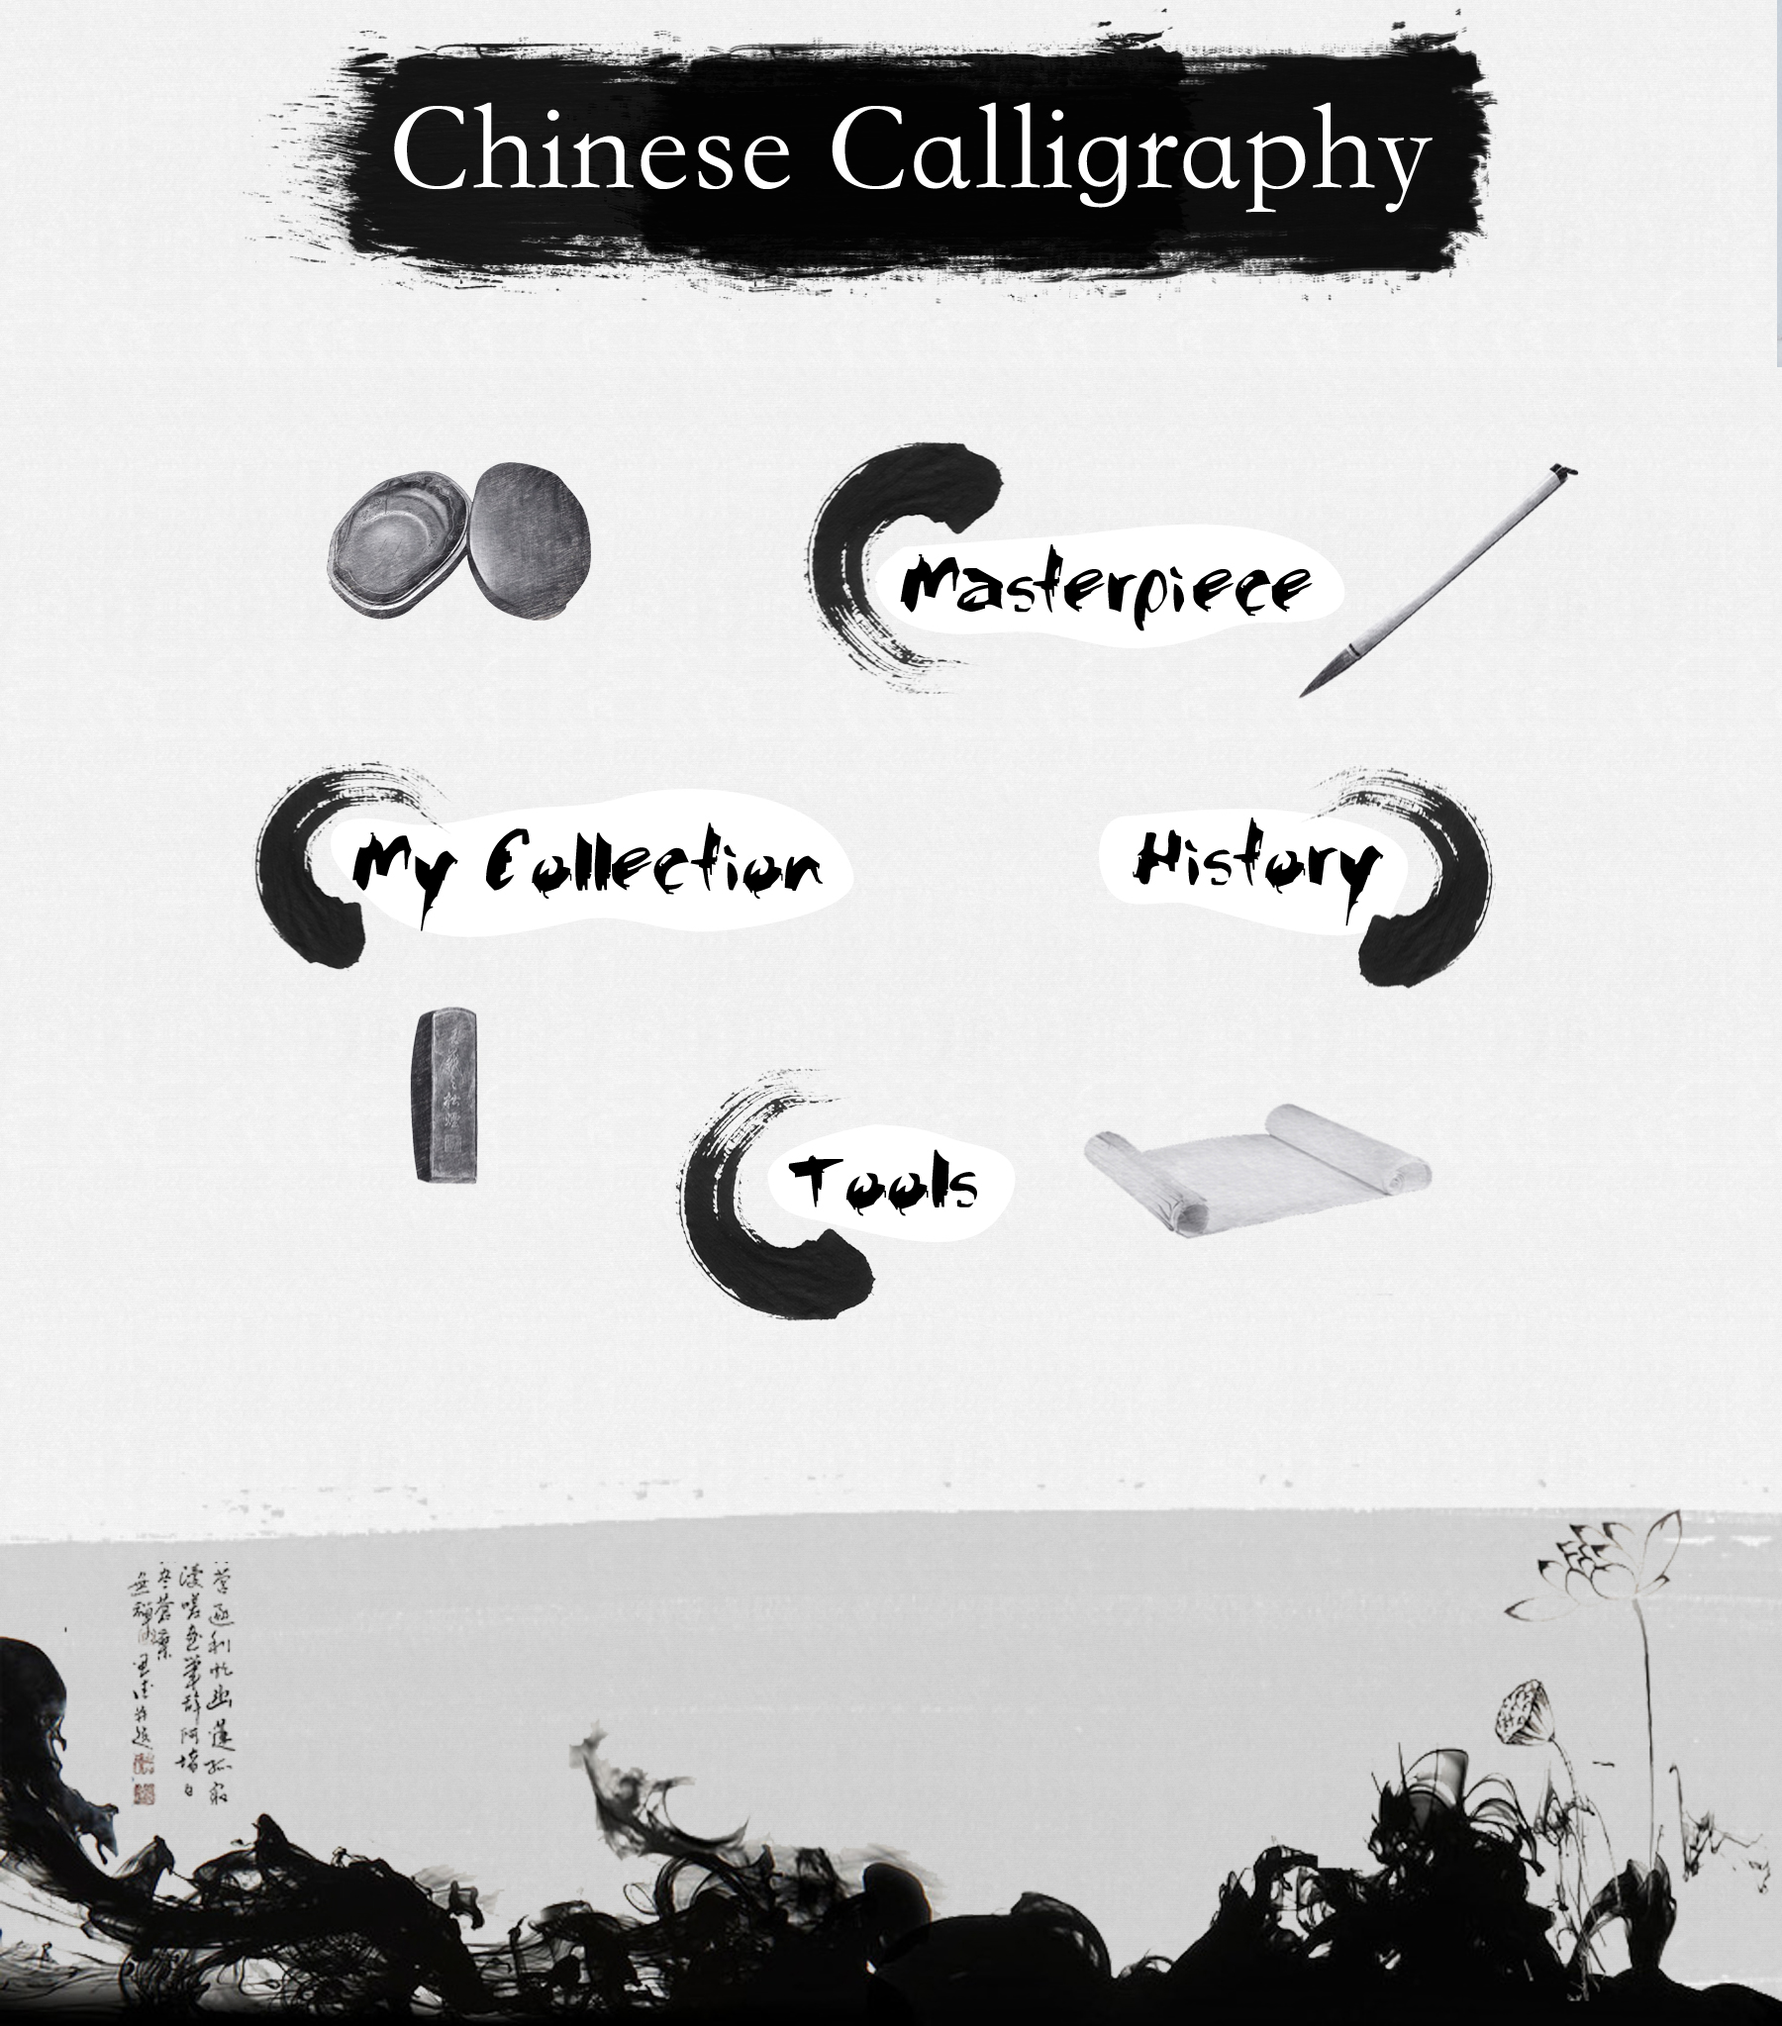
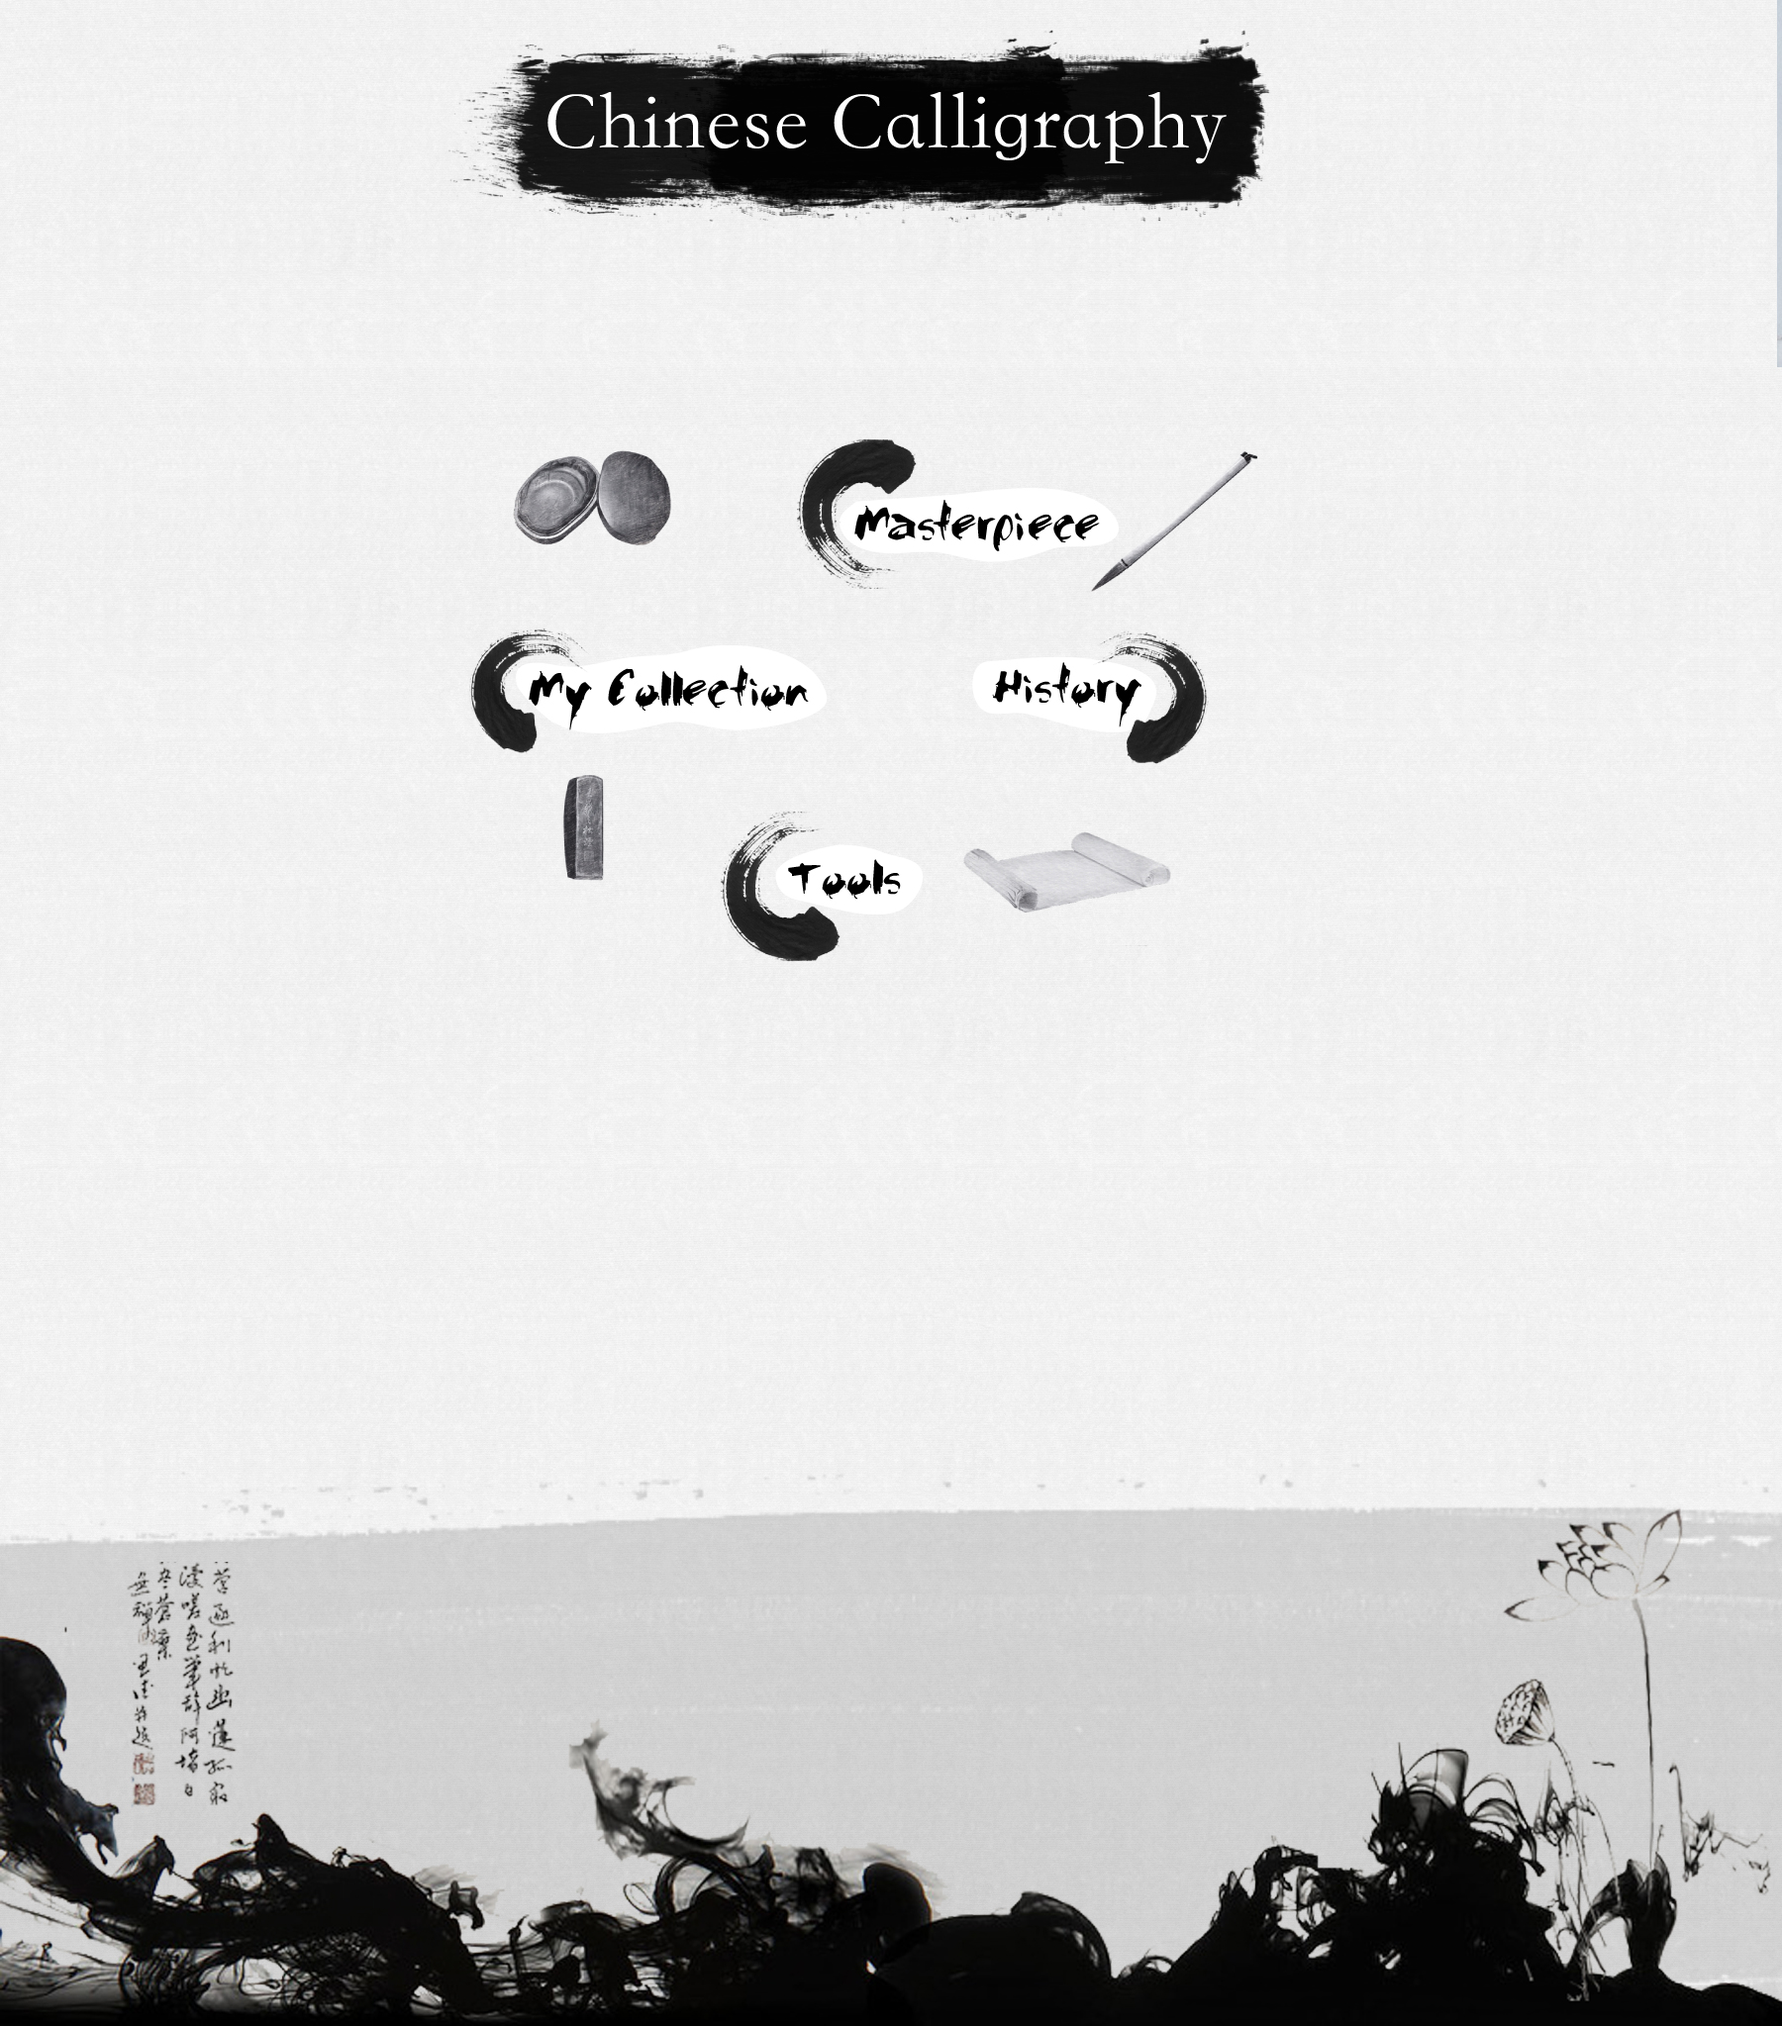
welcome page November 30
Basically finished

diff --git a/css/welcome.css b/css/welcome.css
@@ -1,0 +1,117 @@
+html{
+  min-width: 320px;
+  margin-bottom: 0;
+  height: 100%;
+}
+
+body {
+  background: url("../imgs/basic.png");
+  background-repeat: repeat;
+  min-width: 320px;
+  margin: 0 auto;
+}
+
+header {
+    height: auto;
+    margin: 0 auto;
+    text-align: center;
+    vertical-align: middle;
+    padding-bottom: 5%;
+    width:80%;
+}
+
+h1{
+  font-size: 24px;
+  display: block;
+  color:white;
+  margin: 0 auto;
+  vertical-align: middle;
+  padding: 30px 0;
+  background: url("../imgs/header.png") center center  no-repeat;
+  background-size: 100% 70%;
+  background-position: -15px;
+}
+
+
+.container {
+  position: relative;
+  height:0px;
+  background: url("../imgs/nav.png") center top no-repeat;
+  /*background-size: 80%;*/
+  background-size: contain;
+  width: 100%;
+  padding-top: 75%;
+
+}
+
+.container a{
+  display:block;
+  position: absolute;
+  text-align: center;
+  text-indent: -9999em;
+}
+
+.container ul{
+  list-style: none;
+}
+
+footer{
+  bottom: 0;
+}
+.box {
+  position: relative;
+  height: 200px;
+  width: 100%;
+  background: url("../imgs/footer.png")center bottom no-repeat;
+  background-size: 100% 90%;
+  text-align: center;
+  margin: 0 auto;
+}
+footer p{
+  position:absolute;
+  left:20%;
+  top:20%;
+  width:60%;
+  display: block;
+}
+
+
+.nav_mas {
+    left: 48%;
+    top: 3%;
+    width: 30%;
+    height: 10%;
+}
+
+.nav_his {
+    left: 62%;
+    top: 21%;
+    width: 16%;
+    height: 10%;
+}
+
+.nav_to {
+    left: 43%;
+    top: 40%;
+    width: 13%;
+    height: 10%;
+}
+
+.nav_my {
+    left: 20%;
+    top: 21%;
+    width: 33%;
+    height: 10%;
+}
+@media (min-width: 768px){
+header{
+  width:100%;
+}
+h1{
+  background-size: 100% 80%;
+  font-size: 44px;
+}
+}
+
+
+@media (min-width: 992px){

diff --git a/welcome.html b/welcome.html
@@ -10,12 +10,37 @@
 
 <body>
   <header>
-    <nav class="smallnav">
+      <h1 class="nav_in" href="index.html">Chinese Calligraphy</h1>
+</header>
+
+<nav>
+  <div class="container">
       <ul>
-        <li><a class="nav_in" href="index.html">Index</a></li>
         <li><a class="nav_mas" href="masterpiece.html">Masterpiece</a></li>
         <li><a class="nav_his" href="history.html">History</a></li>
         <li><a class="nav_to" href="tools.html">Tools</a></li>
-        <li><a class="nav_my" href="mycollection.html">My </a></li>
+        <li><a class="nav_my" href="mycollection.html">My collection</a></li>
       </ul>
-    </nav>
+    </div>
+</nav>
+
+
+<footer>
+  <div class="box">
+    <!-- <div class="social">
+      <a href="">
+        <img src="../image/linkedin.png" alt="linkedin.png">
+      </a>
+      <a href="">
+        <img src="../image/facebook.png" alt="facebook.png">
+      </a>
+      <a href="">
+        <img src="../image/instagram.png" alt="instagram.png">
+      </a>
+    </div> -->
+    <p>Junhui Li, Yining Zhou, Ninglu Wang
+      <span style="font-size:1.3em">&copy;</span> 2015 All Rights Reserved</P>
+</div>
+  </footer>
+</body>
+</html>
